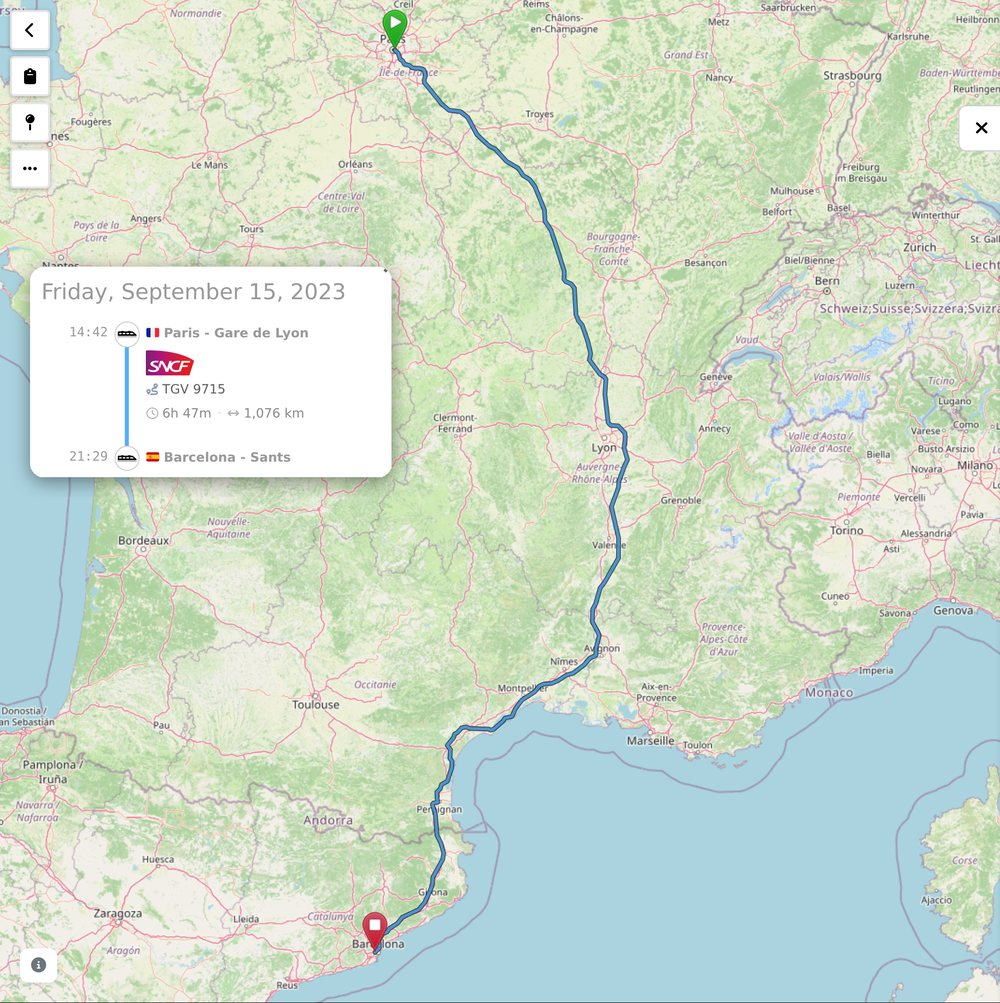
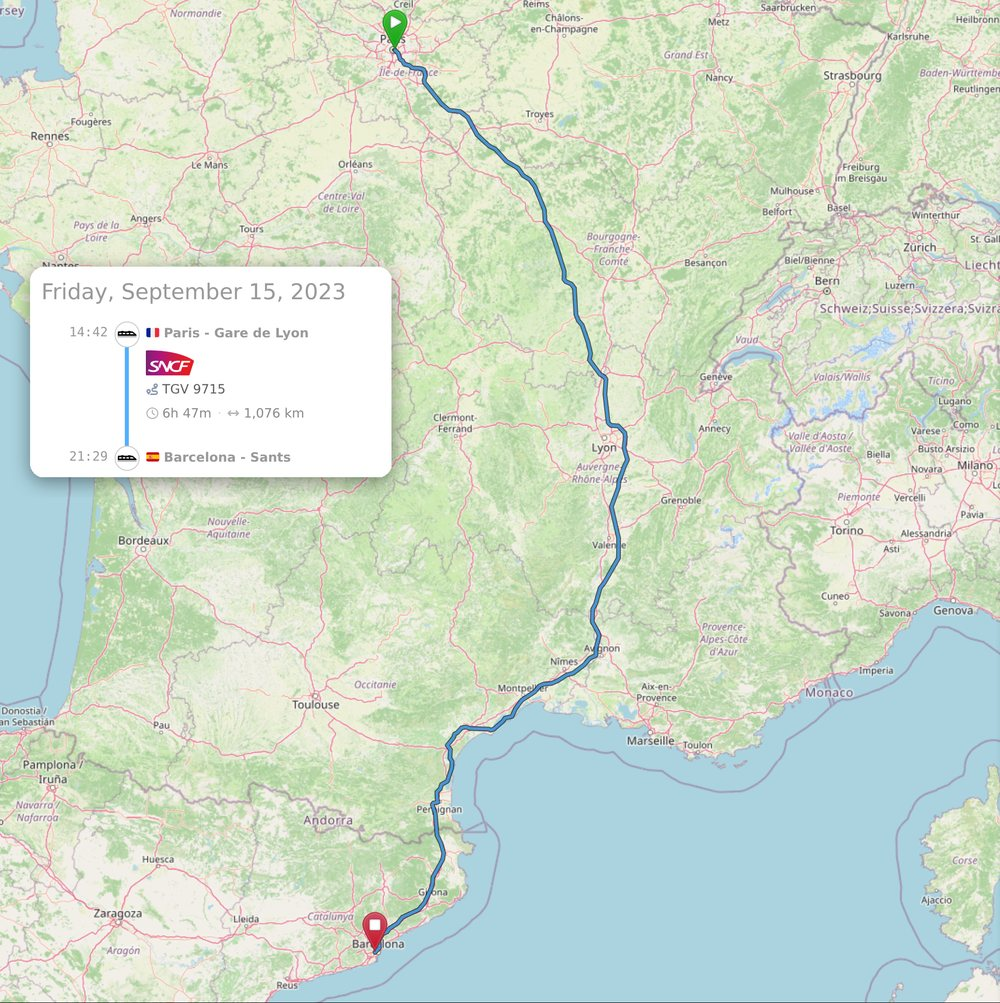
Landing screenshots: 1rem corners like the cards inside them, no map buttons on the shared trip, Swiss coverage loaded without a placeholder or a jump

Changed region(s): [[0.0, 0.0, 0.062, 0.1854], [0.961, 0.0927, 1.0, 0.1545], [0.0, 0.9272, 0.062, 0.989]]

diff --git a/templates/landing.html b/templates/landing.html
@@ -94,7 +94,7 @@
 										<span class="frame"><img src="/static/landingassets/images/image11.jpg" alt="{{ landingStats }}" /></span>
 									</div>
 									<div id="image04" class="style2 image">
[1 lines of base64/hex data omitted]
+										<span class="frame"><img src="/static/landingassets/images/image04.jpg" width="1000" height="590" style="height: auto" loading="lazy" alt="{{ landingStats }}" /></span>
 									</div>
 								</div>
 							</div>

diff --git a/static/landingassets/landing_extra.css b/static/landingassets/landing_extra.css
@@ -101,7 +101,7 @@
 	width: 100%;
 	height: auto;
 	margin-top: 2rem;
-	border-radius: 1.25rem;
+	border-radius: 1rem;
 	box-shadow: 0 1rem 3rem rgba(0, 0, 0, 0.35);
 }
 
@@ -163,4 +163,9 @@
 }
 #buttons03 {
 	margin-top: clamp(1rem, 3vh, 2rem) !important;
+}
+
+/* Screenshots get the corners of the cards inside them, not main.css's 3rem pill */
+.image.style2 .frame {
+	border-radius: 1rem !important;
 }
